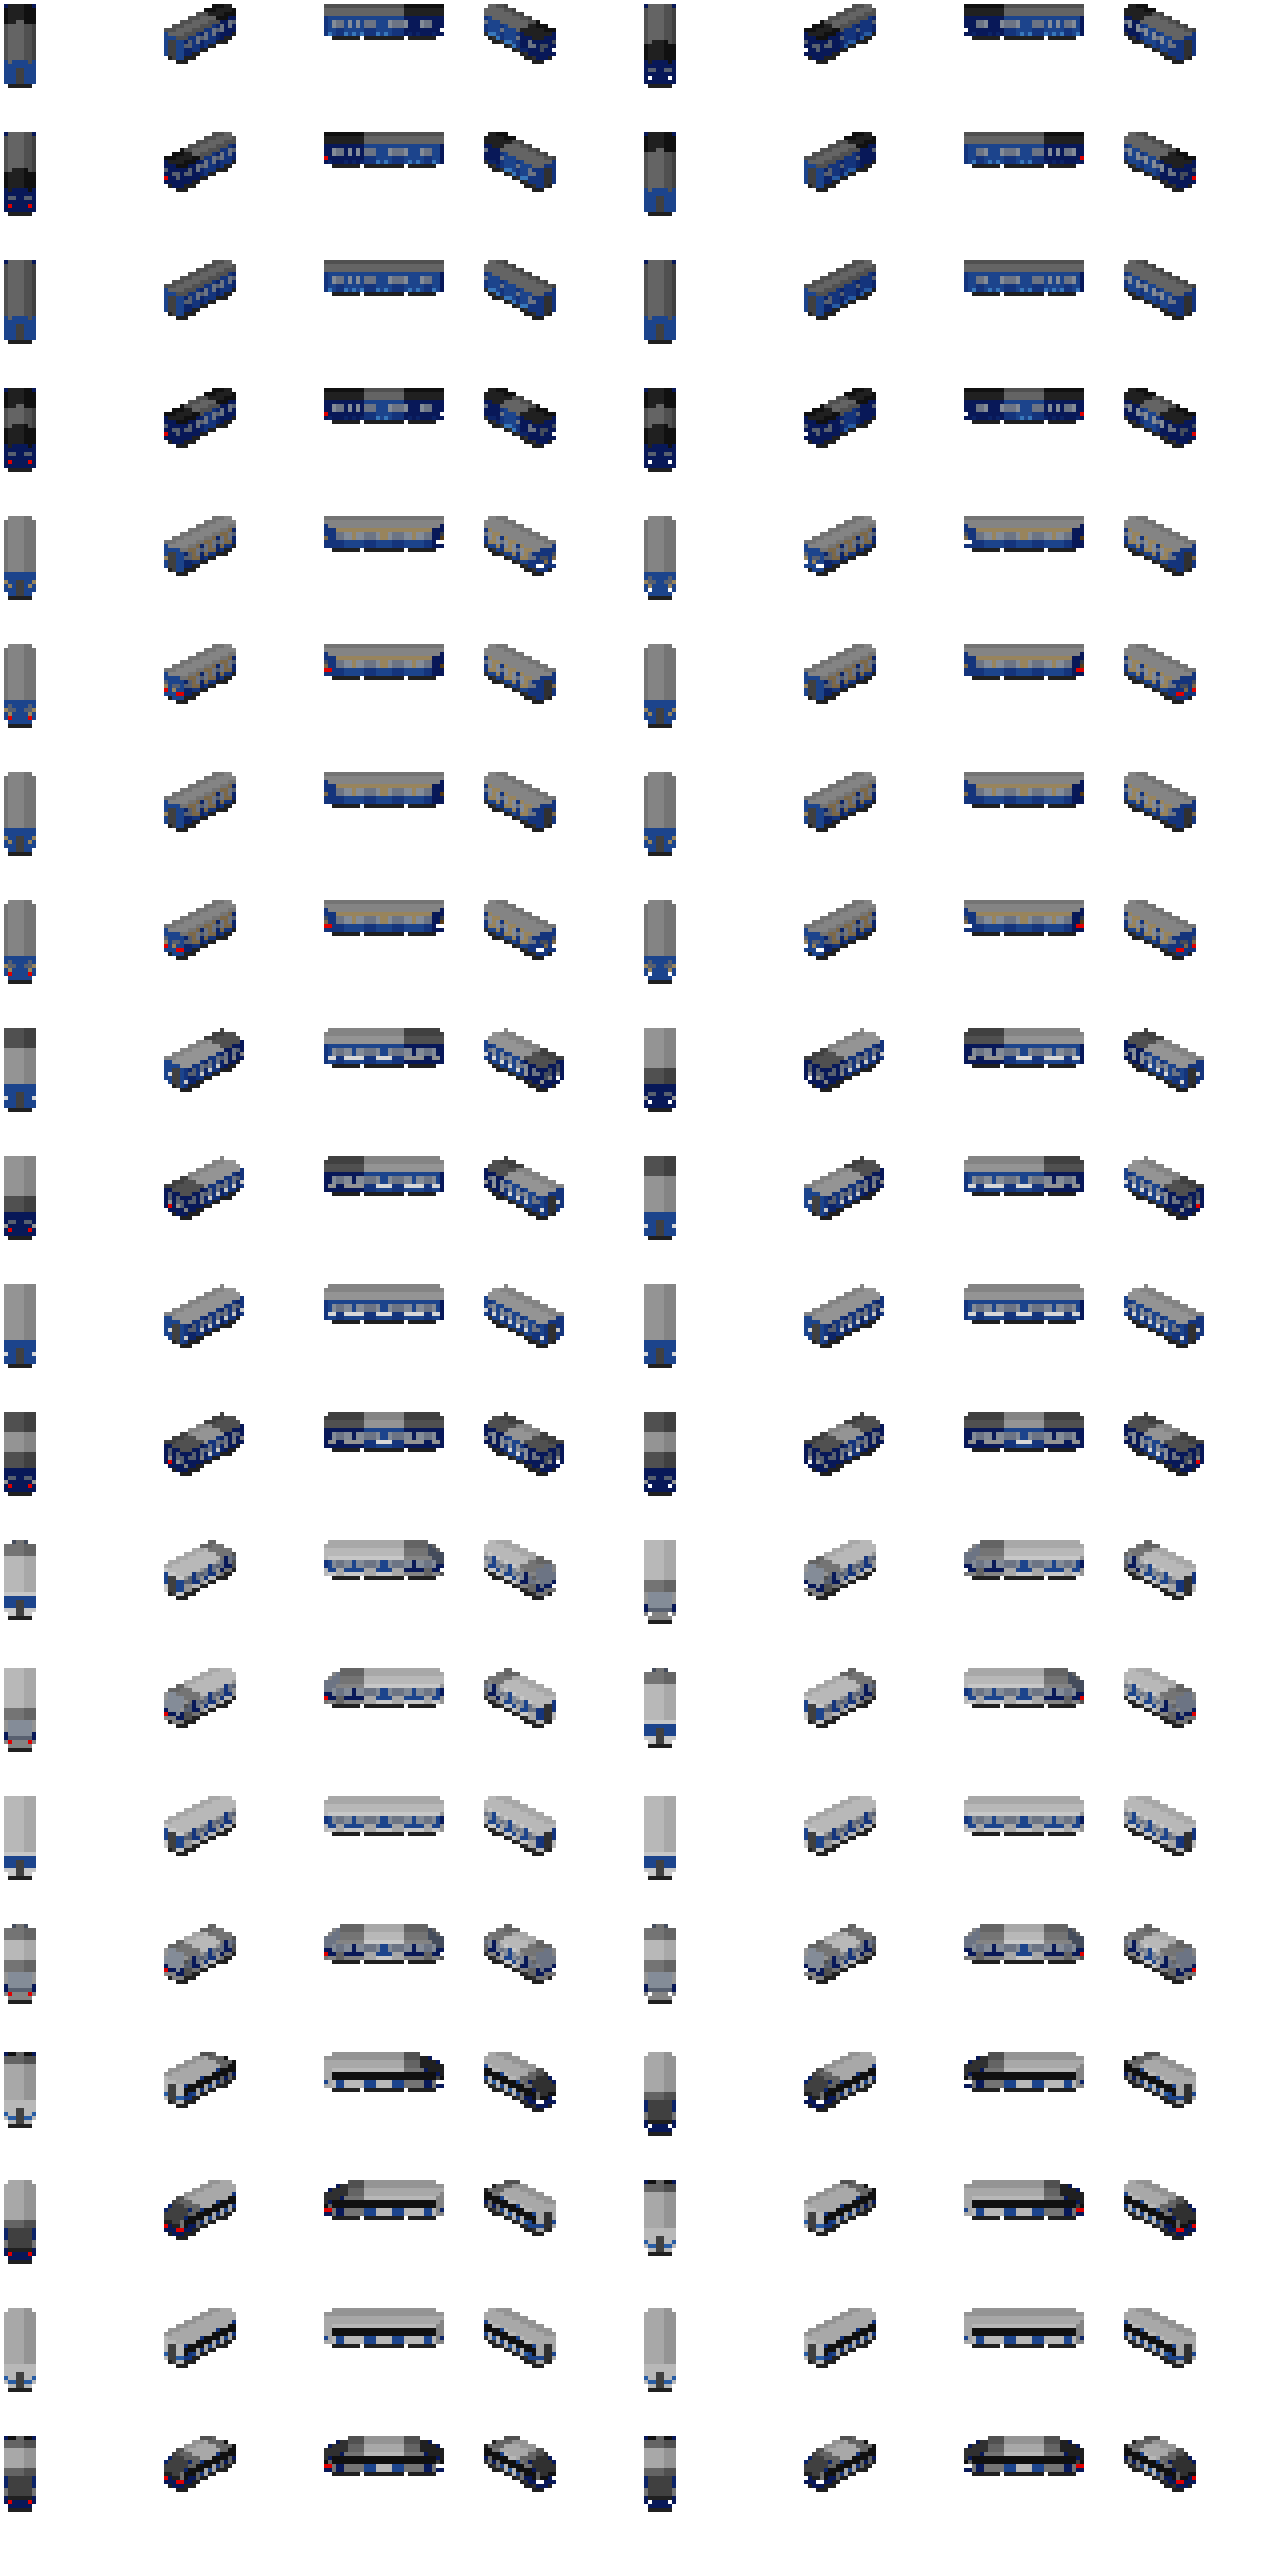
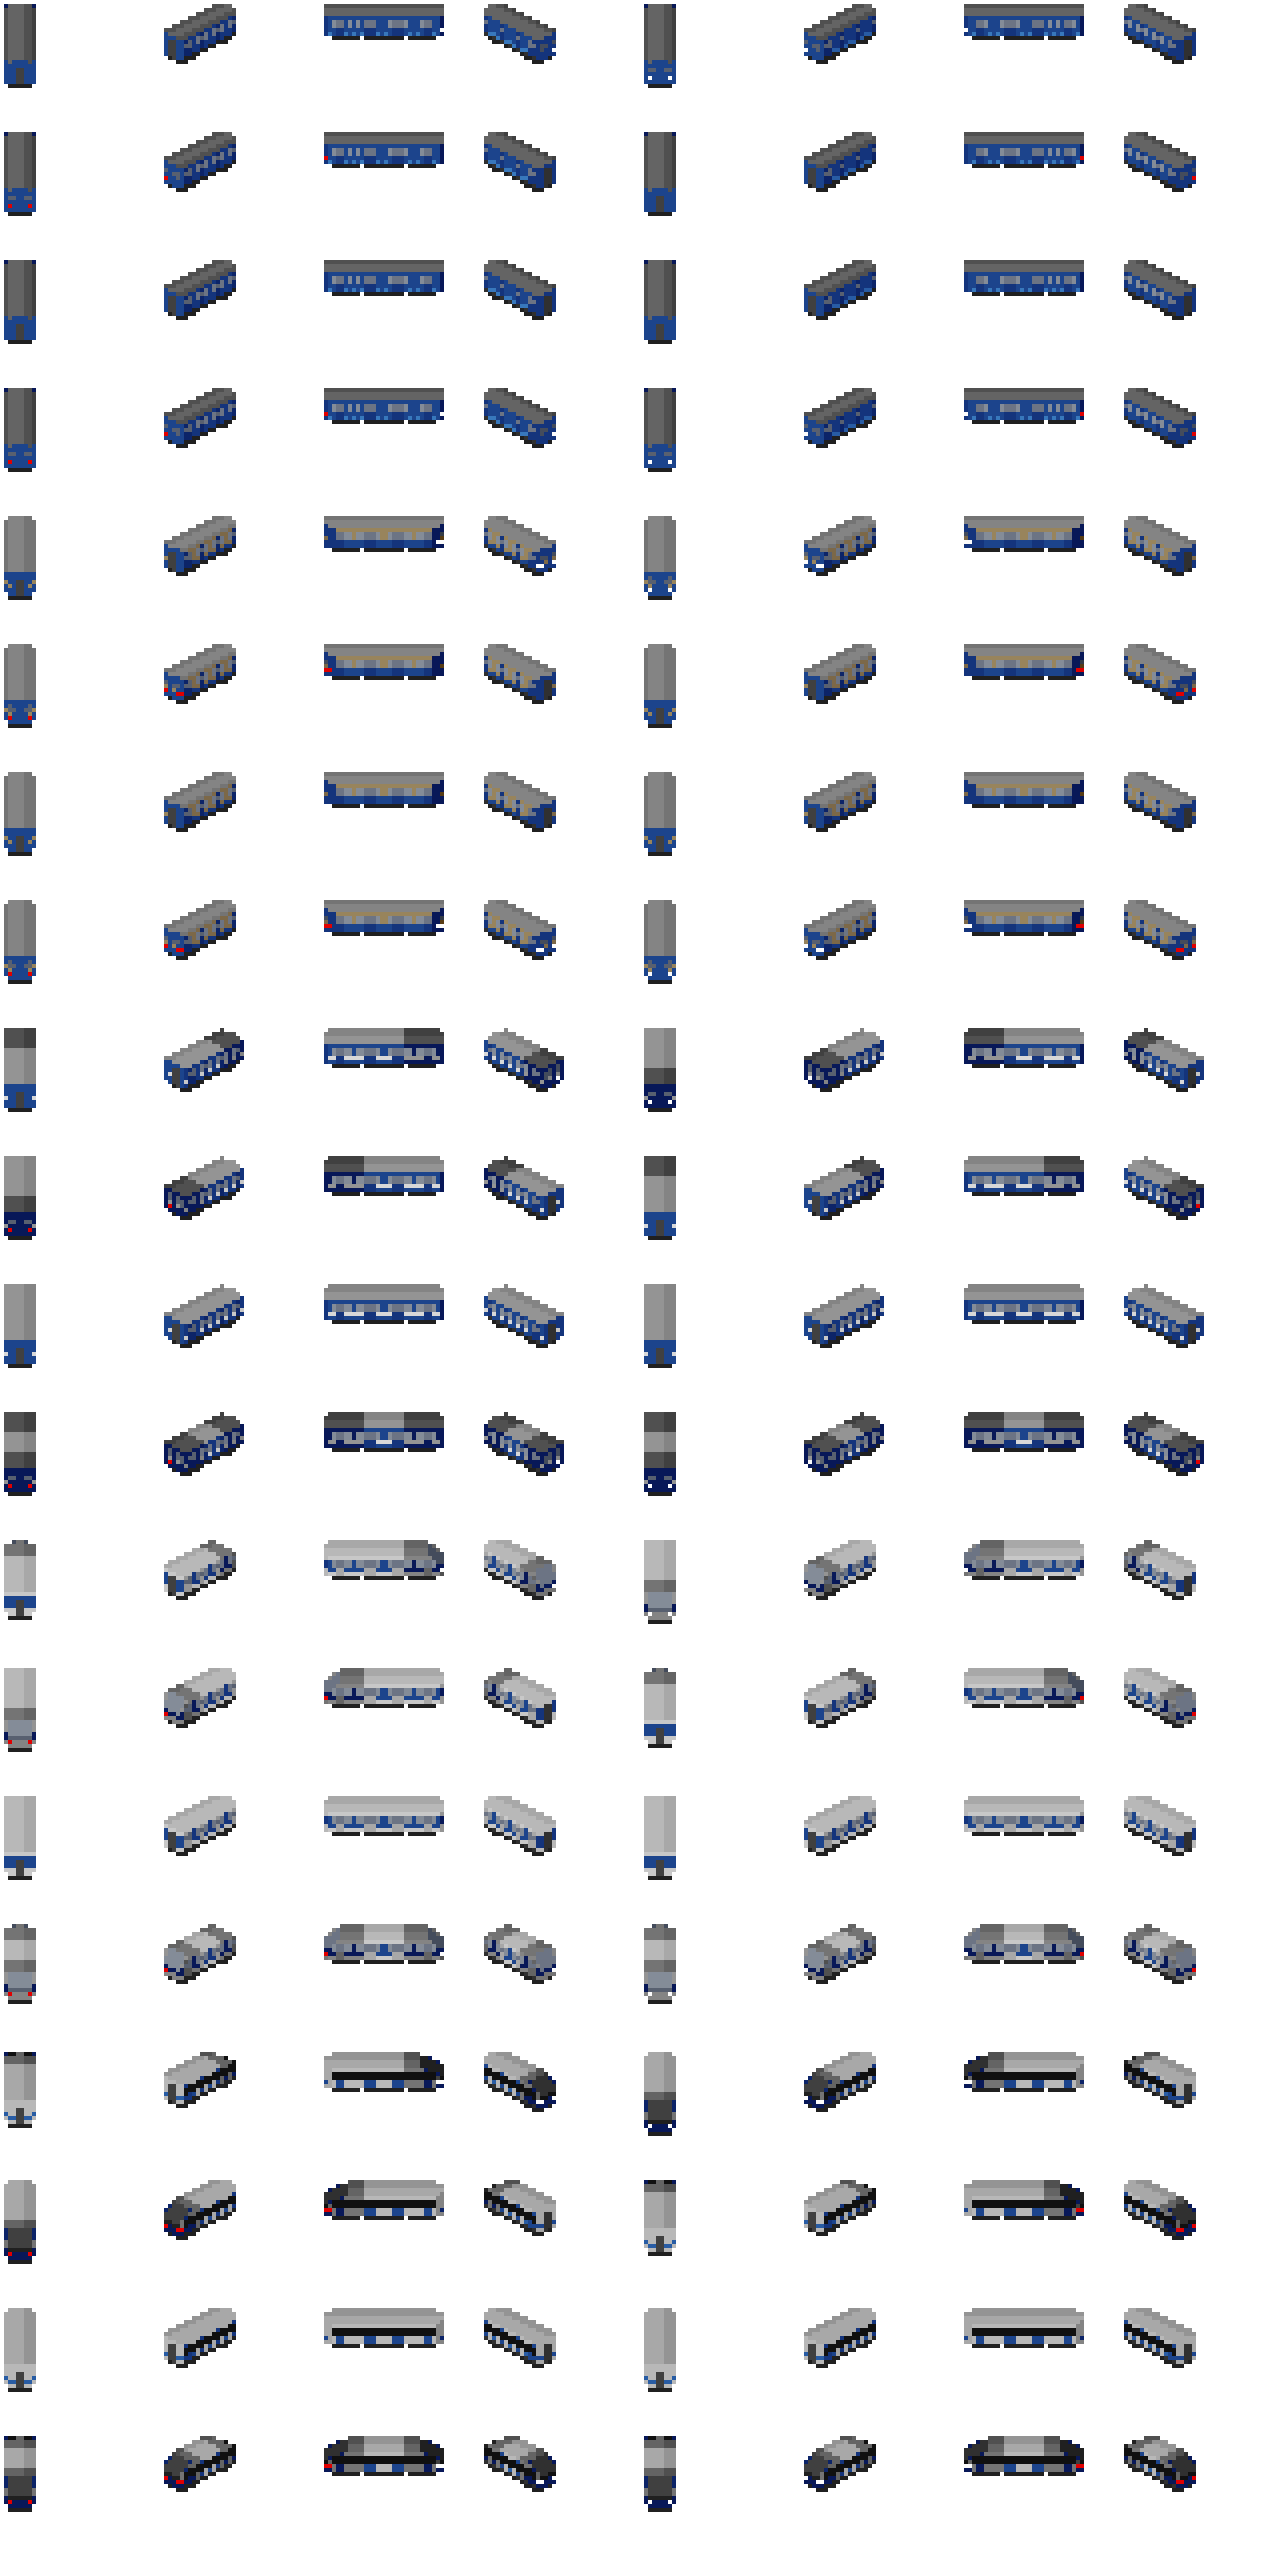
Change: Metro set: no cab mark on the Type A, whose cars are all alike

diff --git a/media/metro_set/generate.py b/media/metro_set/generate.py
@@ -71,7 +71,7 @@ STYLES = {
     'a': dict(body='cc', body_lvl=4, roof='grey', roof_lvl=4, roof_dome=1.0,
               belt=None, window_band=(4.0, 5.5), window='glass', window_frames=True,
               rivets=True, doors=4, door='cc', door_lvl=3, chamfer=0.25, slope=None,
-              front_window=(4.0, 5.5), front_split=True, skirt='steel'),
+              front_window=(4.0, 5.5), front_split=True, skirt='steel', cab_mark=False),
     # 1959: smooth, two-tone, rounded cab corners.
     'e': dict(body='cc', body_lvl=4, roof='grey', roof_lvl=6, roof_dome=0.8,
               belt=('cream', 4, 3.3, 3.8), window_band=(4.0, 5.5), window='glass', window_frames=False,
@@ -104,8 +104,9 @@ Z_ROOF = 0.5         # extra height of the roof crown
 
 
 # The third of a car at its cab end is painted darker, so the head and the tail
-# of a train stand out from the middle cars at a glance. Types whose cars are
-# all alike (cab_mark=False) are not marked.
+# of a train stand out from the middle cars at a glance. The old types, whose
+# cars are all alike (cab_mark=False: Type A, Type E), are not marked; the
+# numbered types from the 717 on have middle cars.
 MARK_LEN = 2 * HALF_LEN / 3
 MARK_DARKEN = {'cc': 3.5, 'grey': 4.0, 'cream': 3.0, 'bluegrey': 3.0, 'brown': 3.0}
 
